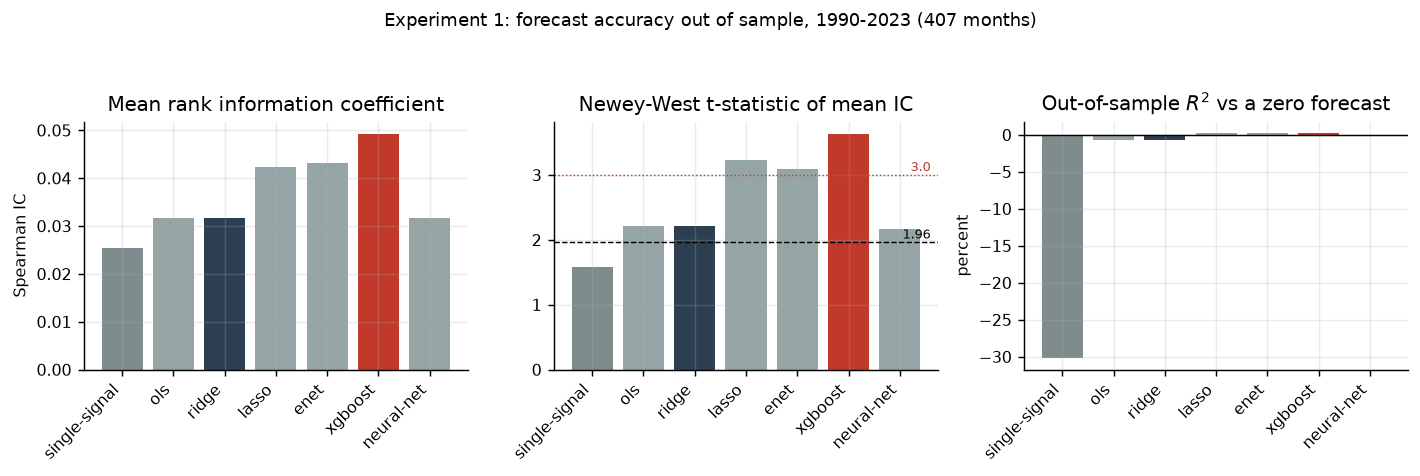
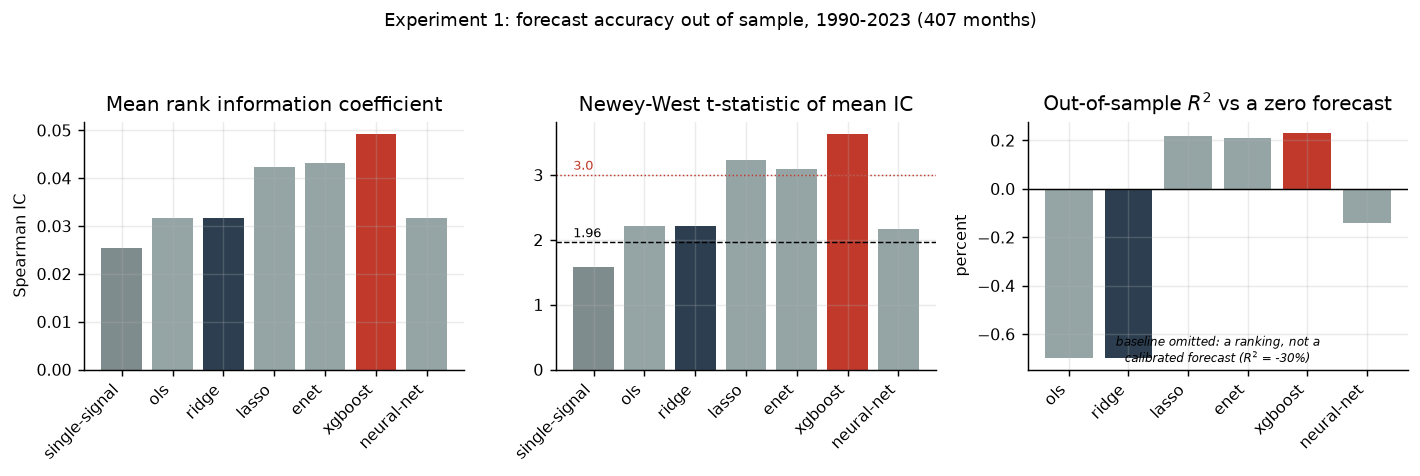
docs: add a figure showing which model differences are detectable
Plots each IC difference with a 95% interval. Nearly every interval crosses
zero; the only one that does not is the neural network losing to boosting.
Also drops the single-signal baseline from the out-of-sample R-squared panel,
where its -30% compressed the axis and hid the differences that matter -- it is
a ranking rather than a calibrated forecast, so its squared error was never
comparable.

diff --git a/scripts/06_figures.py b/scripts/06_figures.py
@@ -69,13 +69,31 @@ def figure_forecast_accuracy() -> None:
     axes[1].axhline(1.96, color="black", lw=0.8, ls="--")
     axes[1].axhline(3.0, color="#c0392b", lw=0.8, ls=":")
     axes[1].set_title("Newey-West t-statistic of mean IC")
-    axes[1].text(len(models) - 0.4, 2.02, "1.96", fontsize=7, ha="right")
-    axes[1].text(len(models) - 0.4, 3.06, "3.0", fontsize=7, ha="right", color="#c0392b")
+    axes[1].text(-0.4, 2.04, "1.96", fontsize=7)
+    axes[1].text(-0.4, 3.08, "3.0", fontsize=7, color="#c0392b")
 
-    axes[2].bar(models, accuracy["r2_oos"] * 100.0, color=colours)
+    # The single-characteristic baseline is a ranking, not a calibrated return
+    # forecast, so its squared error is not comparable and its -30% would
+    # compress the axis to the point of hiding the differences that matter.
+    fitted = [m for m in models if m != "single-signal"]
+    axes[2].bar(
+        fitted,
+        accuracy.loc[fitted, "r2_oos"] * 100.0,
+        color=[HIGHLIGHT.get(m, "#95a5a6") for m in fitted],
+    )
     axes[2].axhline(0.0, color="black", lw=0.8)
     axes[2].set_title("Out-of-sample $R^2$ vs a zero forecast")
     axes[2].set_ylabel("percent")
+    axes[2].text(
+        0.5,
+        0.03,
+        "baseline omitted: a ranking, not a\ncalibrated forecast ($R^2$ = "
+        f"{accuracy.loc['single-signal', 'r2_oos'] * 100:.0f}%)",
+        transform=axes[2].transAxes,
+        fontsize=6.5,
+        ha="center",
+        style="italic",
+    )
 
     for ax in axes:
         ax.tick_params(axis="x", rotation=45)
@@ -87,6 +105,58 @@ def figure_forecast_accuracy() -> None:
         fontsize=10,
     )
     _save(fig, "fig1_forecast_accuracy")
+
+
+def figure_model_comparisons() -> None:
+    """The headline of Experiment 1: which differences are actually detectable."""
+    path = RESULTS / "exp1_model_comparisons.csv"
+    if not path.exists():
+        print("  skipping comparison figure (exp1_model_comparisons.csv not found)")
+        return
+    comparisons = _table("exp1_model_comparisons")
+    order = [m for m in LADDER if m in set(comparisons["model"])]
+    adjacent = [(a, b) for a, b in zip(order[1:], order[:-1])]
+
+    best_linear = read_json("exp1_run").get("best_linear_model", "enet")
+    against_linear = [
+        (m, best_linear) for m in order if m != best_linear
+    ]
+
+    fig, axes = plt.subplots(1, 2, figsize=(11, 3.8))
+    for ax, pairs, title in (
+        (axes[0], adjacent, "Each rung against the one below it"),
+        (axes[1], against_linear, f"Each model against {best_linear}"),
+    ):
+        labels, diffs, errors, colours = [], [], [], []
+        for model, benchmark in pairs:
+            row = comparisons[
+                (comparisons["model"] == model) & (comparisons["benchmark"] == benchmark)
+            ]
+            if row.empty:
+                continue
+            diff = float(row["ic_difference"].iloc[0])
+            tstat = float(row["ic_diff_tstat"].iloc[0])
+            labels.append(f"{model}\nvs {benchmark}")
+            diffs.append(diff)
+            # Back out the standard error from the point estimate and t.
+            errors.append(1.96 * abs(diff / tstat) if tstat else np.nan)
+            colours.append("#c0392b" if abs(tstat) > 1.96 else "#95a5a6")
+
+        positions = np.arange(len(labels))
+        ax.barh(positions, diffs, xerr=errors, color=colours, capsize=3, height=0.6)
+        ax.axvline(0.0, color="black", lw=1.0)
+        ax.set_yticks(positions)
+        ax.set_yticklabels(labels, fontsize=6.5)
+        ax.set_xlabel("difference in mean rank IC (95% interval)")
+        ax.set_title(title, fontsize=9)
+        ax.invert_yaxis()
+
+    fig.suptitle(
+        "Red = the 95% interval excludes zero.  Almost nothing does.",
+        y=1.05,
+        fontsize=10,
+    )
+    _save(fig, "fig13_model_comparisons")
 
 
 def figure_calibration_gap() -> None:
@@ -369,7 +439,7 @@ def figure_ablation() -> None:
     axes[0].axvline(baseline, color="#c0392b", lw=1.2, ls="--", label="all predictors")
     axes[0].set_title("IC with one group removed")
     axes[0].set_xlabel("rank IC")
-    axes[0].legend(fontsize=7.5, frameon=False)
+    axes[0].legend(fontsize=7.5, frameon=False, loc="lower right")
 
     axes[1].barh(order, only.loc[order, "rank_ic"], color="#16a085")
     axes[1].axvline(baseline, color="#c0392b", lw=1.2, ls="--")
@@ -454,6 +524,7 @@ def main() -> None:
     print("building figures")
     for builder in (
         figure_forecast_accuracy,
+        figure_model_comparisons,
         figure_calibration_gap,
         figure_cumulative_performance,
         figure_cost_erosion,

diff --git a/scripts/07_report.py b/scripts/07_report.py
@@ -376,6 +376,8 @@ negative favours the row.
 
 {md(comparisons_adjacent)}
 
+{figure("fig13_model_comparisons", "Differences in mean rank IC with 95% intervals. Almost every interval crosses zero.")}
+
 **Not one adjacent step is a significant improvement.** The only significant row
 is the last, and it goes the wrong way: the neural network is significantly
 *worse* than boosting. Every rung of the ladder is small relative to its own

diff --git a/reports/RESEARCH_REPORT.md b/reports/RESEARCH_REPORT.md
@@ -177,6 +177,12 @@ negative favours the row.
 | xgboost vs enet       |     0.0493 |         0.0432 |          0.0060 |          1.4609 |           0.1440 |                  -0.2971 |      0.7664 |
 | neural-net vs xgboost |     0.0317 |         0.0493 |         -0.0176 |         -2.9832 |           0.0029 |                   3.5551 |      0.0004 |
 
+
+![Differences in mean rank IC with 95% intervals. Almost every interval crosses zero.](figures/fig13_model_comparisons.png)
+
+*Differences in mean rank IC with 95% intervals. Almost every interval crosses zero.*
+
+
 **Not one adjacent step is a significant improvement.** The only significant row
 is the last, and it goes the wrong way: the neural network is significantly
 *worse* than boosting. Every rung of the ladder is small relative to its own
